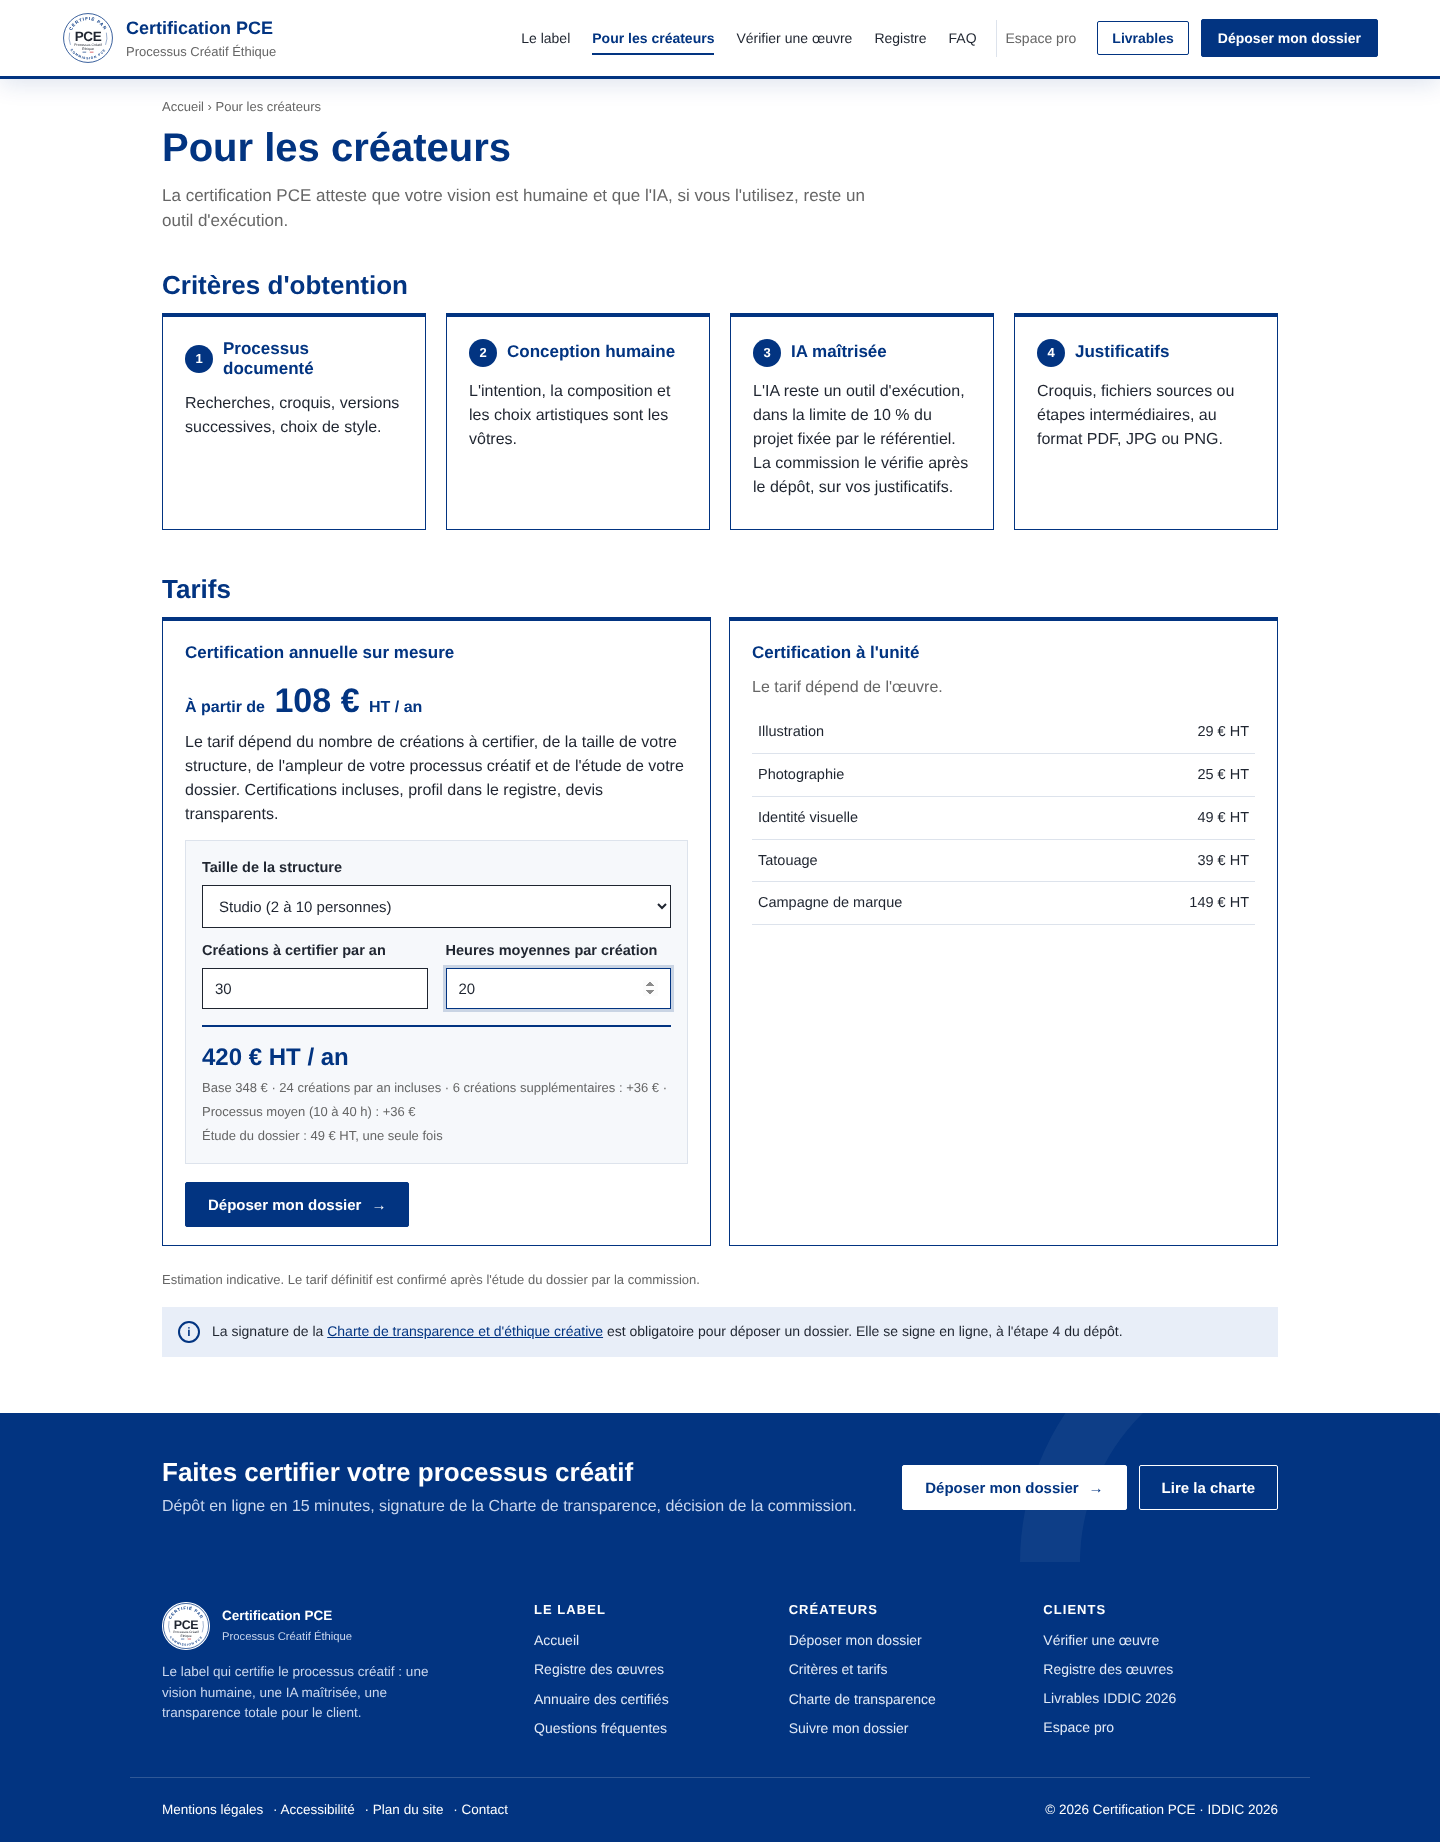
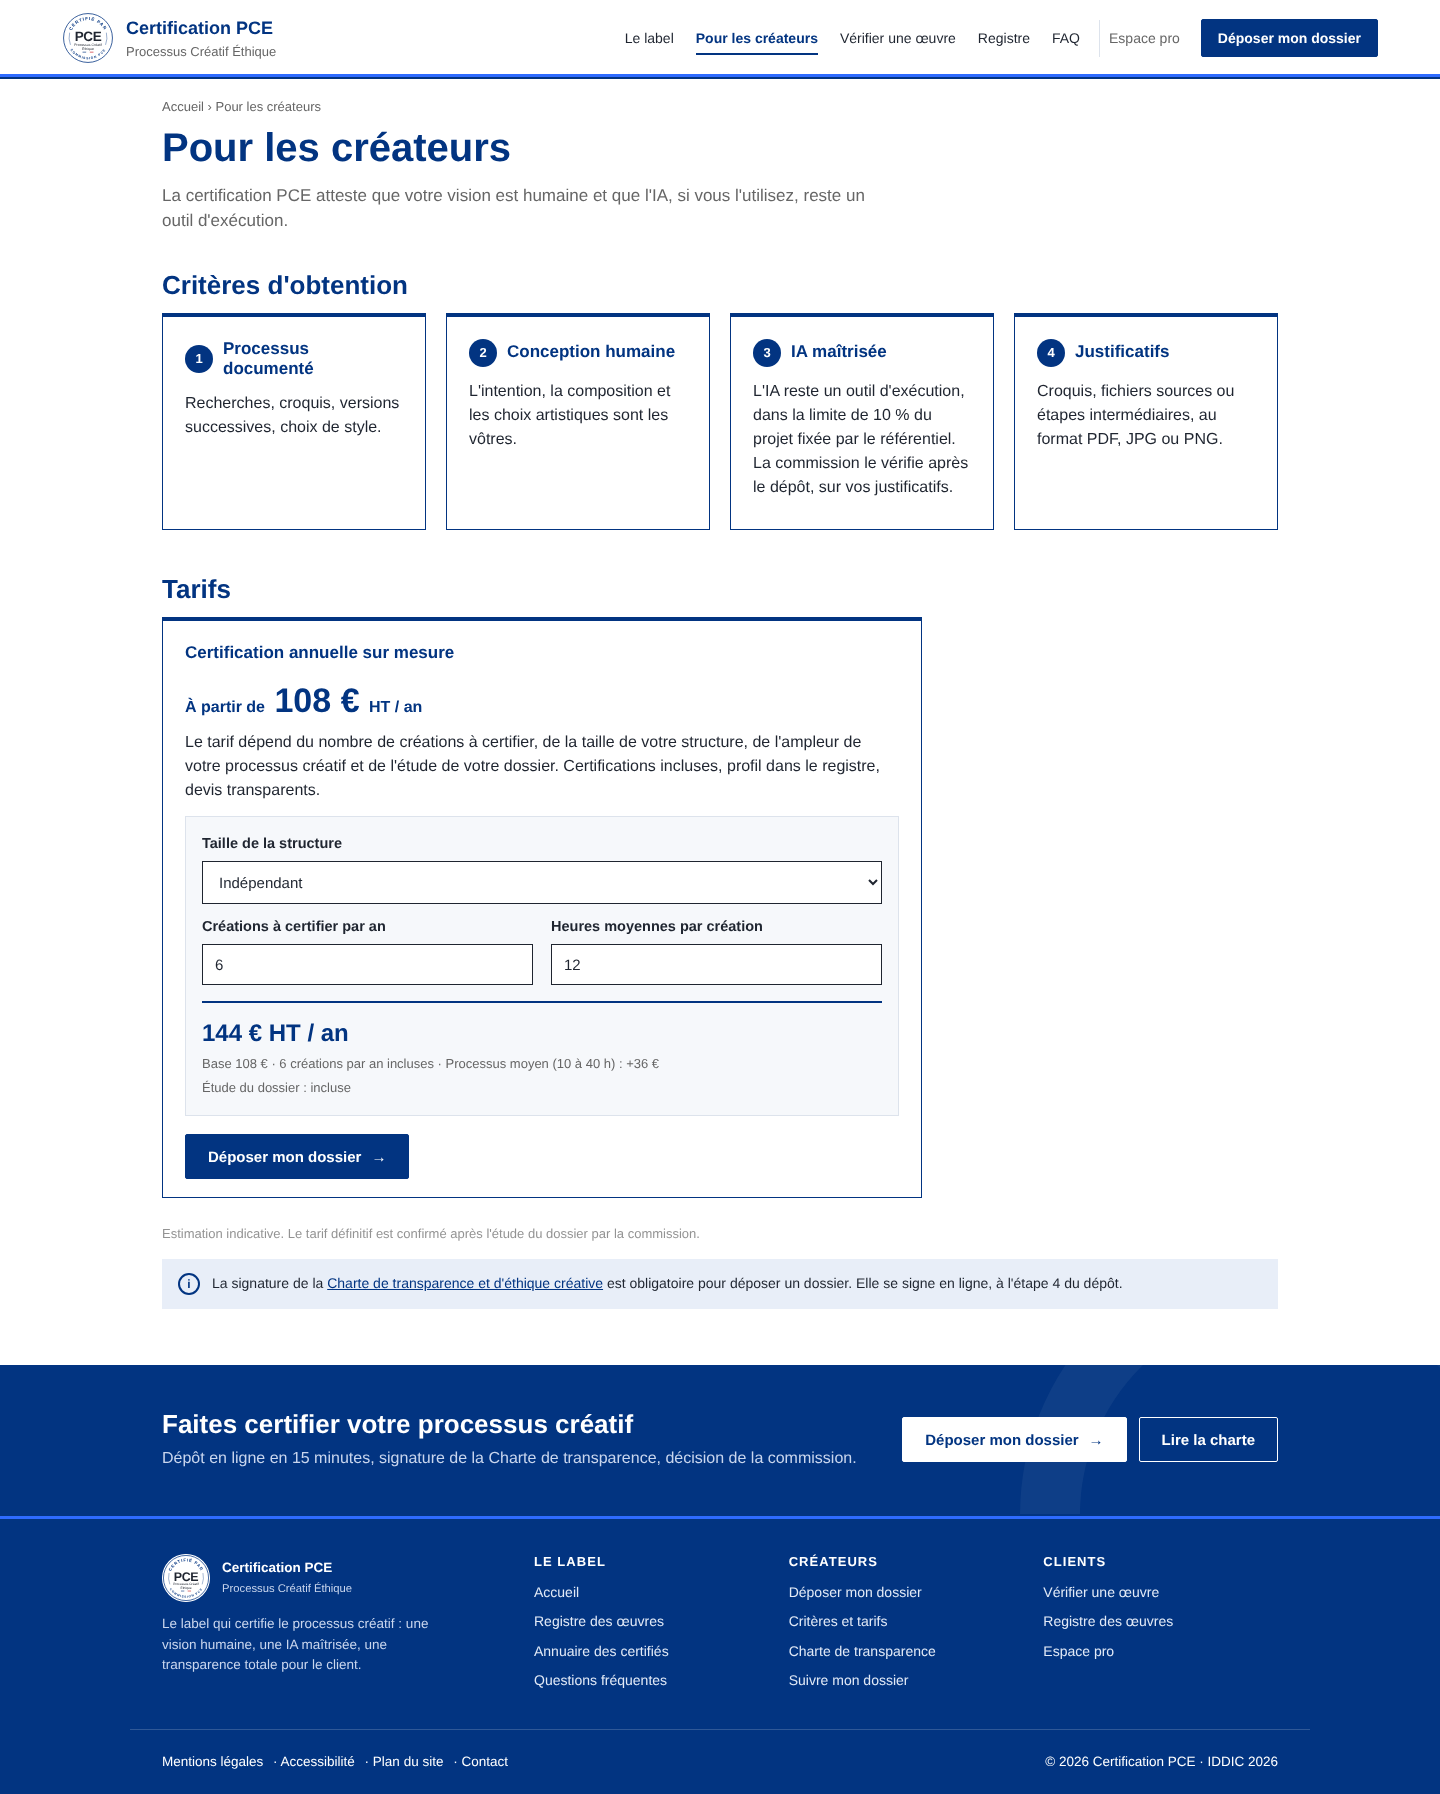
Accueil : moteur des dernières œuvres et entités vérifiées ; retrait des livrables du site et de la carte de certification à l'unité
Claude-Session: https://claude.ai/code/session_013D7uRxLFz2dHeA6eheZQbo

diff --git a/livrable/Prototype_PCE.html b/livrable/Prototype_PCE.html
@@ -274,6 +274,14 @@ table.devis tr.tot td { font-weight: 700; font-size: 16px; border-bottom: 2px so
 .estim-res b { display: block; font-size: 24px; color: var(--marine); transition: opacity .2s; }
 .estim-res span { font-size: 13px; color: var(--gris); }
 
+/* Moteur de l'accueil : œuvres ou entités */
+.moteur { display: flex; gap: 16px; align-items: center; flex-wrap: wrap; border: 1px solid var(--marine); border-top: 4px solid var(--marine); padding: 16px; background: var(--blanc); }
+.bascule { display: inline-flex; border: 1.5px solid var(--marine); flex: none; }
+.bascule button { background: var(--blanc); color: var(--marine); border: none; padding: 11px 20px; font: 700 15px var(--police); cursor: pointer; transition: background .2s, color .2s; }
+.bascule button.actif { background: var(--marine); color: var(--blanc); }
+.moteur-f { display: flex; gap: 10px; flex: 1; min-width: 260px; }
+.moteur-f input { flex: 1; }
+
 /* Annuaire des certifiés */
 .onglets-pub { display: flex; gap: 4px; border-bottom: 2px solid var(--trait-c); margin: 14px 0 22px; flex-wrap: wrap; }
 .onglets-pub a { padding: 10px 16px; text-decoration: none; color: var(--gris); font-weight: 700; border-bottom: 3px solid transparent; margin-bottom: -2px; transition: color .2s, border-color .2s; }
@@ -289,15 +297,6 @@ table.devis tr.tot td { font-weight: 700; font-size: 16px; border-bottom: 2px so
 .avatar.grand { width: 84px; height: 84px; font-size: 28px; }
 .entite-ent { display: flex; gap: 20px; align-items: center; margin-top: 8px; }
 
-/* Livrables */
-.boite.livr { text-align: left; width: min(560px, 94vw); padding: 0; }
-.livr-ent { display: flex; justify-content: space-between; align-items: center; padding: 18px 22px; border-bottom: 1px solid var(--trait-c); }
-.livr-ent h2 { margin: 0; font-size: 20px; }
-.livr ul { list-style: none; margin: 0; padding: 8px 22px 18px; }
-.livr li { display: grid; grid-template-columns: 28px 1fr auto; gap: 14px; align-items: center; padding: 12px 0; border-bottom: 1px solid var(--trait-c); animation: entree .35s both; }
-.livr li:last-child { border-bottom: none; }
-.livr li b { display: block; color: var(--marine); }
-.livr li small { color: var(--gris); font-size: 13px; }
 
 /* Confirmation / suivi */
 .etroit { max-width: 720px; margin: 0 auto; padding-bottom: 56px; }
@@ -473,7 +472,7 @@ table.bdd tbody tr:hover { background: var(--pale); }
       <p>Le label qui certifie le processus créatif : une vision humaine, une IA maîtrisée, une transparence totale pour le client.</p></div>
     <div><h4>Le label</h4><ul><li><a href="#/">Accueil</a></li><li><a href="#/registre">Registre des œuvres</a></li><li><a href="#/annuaire">Annuaire des certifiés</a></li><li><a href="#/faq">Questions fréquentes</a></li></ul></div>
     <div><h4>Créateurs</h4><ul><li><a href="#/depot">Déposer mon dossier</a></li><li><a href="#/createurs">Critères et tarifs</a></li><li><a class="lien-charte">Charte de transparence</a></li><li><a href="#/suivi">Suivre mon dossier</a></li></ul></div>
-    <div><h4>Clients</h4><ul><li><a href="#/verifier">Vérifier une œuvre</a></li><li><a href="#/registre">Registre des œuvres</a></li><li><button type="button" class="pied-livr">Livrables IDDIC 2026</button></li><li><a href="#/pro">Espace pro</a></li></ul></div>
+    <div><h4>Clients</h4><ul><li><a href="#/verifier">Vérifier une œuvre</a></li><li><a href="#/registre">Registre des œuvres</a></li><li><a href="#/pro">Espace pro</a></li></ul></div>
   </div>
   <div class="conteneur pied-bas">
     <div><a href="#/faq">Mentions légales</a> · <a href="#/faq">Accessibilité</a> · <a href="#/registre">Plan du site</a> · <a href="#/faq">Contact</a></div>
@@ -2917,32 +2916,10 @@ function entete(route) {
     <nav class="nav" id="nav" aria-label="Navigation principale">
       ${liens.map(([h, t]) => `<a href="${h}" class="${(h === "#/" ? route === "/" : (route === h.slice(1) || route.startsWith(h.slice(1) + "/") || (h === "#/registre" && /^\/(annuaire|certifie\/)/.test(route)))) ? "actif" : ""}">${t}</a>`).join("")}
       <a href="#/pro" class="pro ${route.startsWith("/pro") ? "actif" : ""}">Espace pro</a>
-      <button class="btn petit sec" id="btn-livrables" type="button" style="margin-left:8px">Livrables</button>
       <a class="btn petit" href="#/depot" style="margin-left:8px">Déposer mon dossier</a>
     </nav></div>`;
   const b = $(".menu-btn"), n = $("#nav");
   b.onclick = () => { const o = n.classList.toggle("ouvert"); b.setAttribute("aria-expanded", o); };
-  $("#btn-livrables").onclick = livrables;
-}
-/* ---------- Livrables (fenêtre de téléchargement) ---------- */
-const DOSSIER_LIVRABLES = location.pathname.includes("/livrable/") ? "" : "/livrable/";
-const LIVRABLES = [
-  ["Pitch_PCE.pdf", "Pitch écrit", "PDF · 1 page"],
-  ["Business_Plan_PCE.xlsx", "Business plan", "Excel · 3 ans, onglet Hypothèses"],
-  ["Prototype_PCE.html", "Prototype", "HTML · fichier unique, hors ligne"],
-];
-function livrables() {
-  const v = document.createElement("div"); v.className = "voile";
-  v.innerHTML = `<div class="boite livr" role="dialog" aria-modal="true" aria-labelledby="livr-t">
-    <div class="livr-ent"><h2 id="livr-t">Livrables IDDIC 2026</h2><button class="fermer" aria-label="Fermer">×</button></div>
-    <ul>${LIVRABLES.map(([f, t, d], i) => `<li style="animation-delay:${i * 60}ms"><span class="pastille">${i + 1}</span><span><b>${t}</b><small>${d}</small></span><a class="btn petit" href="${DOSSIER_LIVRABLES}${f}" download="${f}">Télécharger</a></li>`).join("")}</ul>
-  </div>`;
-  document.body.append(v);
-  const fermer = () => { v.remove(); document.removeEventListener("keydown", k); $("#btn-livrables").focus(); };
-  const k = e => { if (e.key === "Escape") fermer(); };
-  document.addEventListener("keydown", k);
-  v.onclick = e => { if (e.target === v) fermer(); };
-  $(".fermer", v).onclick = fermer; $(".fermer", v).focus();
 }
 const ariane = (...p) => `<div class="ariane"><a href="#/">Accueil</a> › ${p.map((x, i) => i < p.length - 1 ? `<a href="${x[0]}">${x[1]}</a>` : esc(x)).join(" › ")}</div>`;
 
@@ -2987,8 +2964,17 @@ function vueAccueil() {
     </div>
   </div></section>
   <section class="section"><div class="conteneur">
-    <div style="display:flex;justify-content:space-between;align-items:end;gap:16px;flex-wrap:wrap" class="rev"><h2 style="margin:0">Dernières œuvres certifiées</h2><span><a href="#/registre">Consulter le registre →</a> &nbsp; <a href="#/annuaire">Annuaire des certifiés →</a></span></div>
-    <div class="galerie" style="margin-top:22px">${vedetteEnTete(cert).slice(0, 8).map(carteOeuvre).join("")}</div>
+    <h2 class="rev">Dernières œuvres et entités vérifiées</h2>
+    <div class="moteur rev">
+      <div class="bascule" role="tablist" aria-label="Afficher">
+        <button type="button" role="tab" data-vue="oeuvres" aria-selected="true" class="actif">Œuvres</button>
+        <button type="button" role="tab" data-vue="entites" aria-selected="false">Entités</button>
+      </div>
+      <form id="m-f" class="moteur-f"><label class="sr" for="m-q">Rechercher</label><input id="m-q" type="search" placeholder="Rechercher une œuvre, un créateur, un numéro PCE" autocomplete="off"><button class="btn">Rechercher <span class="fl">→</span></button></form>
+    </div>
+    <p class="muted petit-texte" id="m-n" aria-live="polite" style="margin:10px 0 0"></p>
+    <div id="m-g" style="margin-top:14px"></div>
+    <p style="margin-top:18px"><a id="m-tout" href="#/registre">Voir tout le registre des œuvres →</a></p>
   </div></section>
   <section class="section fond"><div class="conteneur"><div class="verif-home rev">
     <div><span class="tag">Pour les clients</span><h2 style="margin-top:10px">Vous achetez une création ?</h2><p class="muted" style="margin:0">Saisissez le numéro PCE inscrit sur l'œuvre ou scannez son QR code. La vérification est gratuite.</p></div>
@@ -2999,7 +2985,38 @@ function vueAccueil() {
 }
 const bandeauCta = () => `<section class="cta"><div class="conteneur"><div><h2>Faites certifier votre processus créatif</h2><p>Dépôt en ligne en 15 minutes, signature de la Charte de transparence, décision de la commission.</p></div>
   <div class="g"><a class="btn blanc" href="#/depot">Déposer mon dossier <span class="fl">→</span></a><a class="btn contour" href="#/charte">Lire la charte</a></div></div></section>`;
+const paramQ = () => decodeURIComponent((location.hash.split("?q=")[1] || "").split("&")[0]);
+const dernierCertif = e => Math.max(...e.oeuvres.map(o => +new Date(o.date)));
+function initMoteur() {
+  let vue = "oeuvres";
+  const f = () => {
+    const q = $("#m-q").value.trim().toLowerCase();
+    if (vue === "oeuvres") {
+      const l = vedetteEnTete(DB.data.oeuvres.filter(o => o.statut === "certifiee" && (!q || (o.titre + " " + o.createur + " " + o.type + " " + o.id).toLowerCase().includes(q))).sort((a, b) => new Date(b.date) - new Date(a.date)));
+      $("#m-n").textContent = q ? `${l.length} œuvre${l.length > 1 ? "s" : ""} trouvée${l.length > 1 ? "s" : ""}` : "Les dernières œuvres certifiées";
+      $("#m-g").innerHTML = l.length ? `<div class="galerie">${l.slice(0, 8).map(carteOeuvre).join("")}</div>` : `<div class="vide-msg">Aucune œuvre ne correspond à votre recherche.</div>`;
+    } else {
+      const l = entites().filter(e => !q || (e.nom + " " + [...e.types].join(" ") + " " + (e.ville || "") + " " + e.taille).toLowerCase().includes(q))
+        .sort((a, b) => (b.oeuvres.some(o => o.id === VEDETTE)) - (a.oeuvres.some(o => o.id === VEDETTE)) || dernierCertif(b) - dernierCertif(a));
+      $("#m-n").textContent = q ? `${l.length} entité${l.length > 1 ? "s" : ""} trouvée${l.length > 1 ? "s" : ""}` : "Les dernières entités certifiées : créatifs, studios et agences";
+      $("#m-g").innerHTML = l.length ? `<div class="entites">${l.slice(0, 6).map(carteEntite).join("")}</div>` : `<div class="vide-msg">Aucune entité ne correspond à votre recherche.</div>`;
+    }
+    const cible = vue === "oeuvres" ? "#/registre" : "#/annuaire";
+    $("#m-tout").href = cible + (q ? "?q=" + encodeURIComponent($("#m-q").value.trim()) : "");
+    $("#m-tout").textContent = vue === "oeuvres" ? "Voir tout le registre des œuvres →" : "Voir tout l'annuaire des certifiés →";
+    revele();
+  };
+  $$(".bascule button").forEach(b => b.onclick = () => {
+    vue = b.dataset.vue; $$(".bascule button").forEach(x => { x.classList.toggle("actif", x === b); x.setAttribute("aria-selected", x === b); });
+    $("#m-q").placeholder = vue === "oeuvres" ? "Rechercher une œuvre, un créateur, un numéro PCE" : "Rechercher un créatif, un studio, une agence, une ville";
+    f();
+  });
+  $("#m-q").addEventListener("input", f);
+  $("#m-f").onsubmit = e => { e.preventDefault(); location.hash = $("#m-tout").getAttribute("href"); };
+  f();
+}
 function initAccueil() {
+  initMoteur();
   $("#vh-f").onsubmit = e => { e.preventDefault(); const n = $("#vh-n").value.trim(); if (n) location.hash = "#/verifier/" + encodeURIComponent(n); };
   $$("[data-vh]").forEach(b => b.onclick = () => { location.hash = "#/verifier/" + b.dataset.vh; });
 }
@@ -3019,7 +3036,7 @@ function vueCreateurs() {
       <div class="carte rev"><h3><span class="pastille">4</span>Justificatifs</h3><p>Croquis, fichiers sources ou étapes intermédiaires, au format PDF, JPG ou PNG.</p></div>
     </div>
     <h2 style="margin-top:44px">Tarifs</h2>
-    <div class="deux" style="margin-bottom:24px">
+    <div style="margin-bottom:24px;max-width:760px">
       <div class="carte rev"><h3>Certification annuelle sur mesure</h3><p style="font-size:34px;font-weight:700;color:var(--marine);margin:4px 0"><span style="font-size:16px">À partir de</span> 108 € <span style="font-size:16px">HT / an</span></p>
         <p>Le tarif dépend du nombre de créations à certifier, de la taille de votre structure, de l'ampleur de votre processus créatif et de l'étude de votre dossier. Certifications incluses, profil dans le registre, devis transparents.</p>
         <div class="estim" id="estim">
@@ -3029,8 +3046,6 @@ function vueCreateurs() {
           <div class="estim-res" id="es-r" aria-live="polite"></div>
         </div>
         <a class="btn" href="#/depot">Déposer mon dossier <span class="fl">→</span></a></div>
-      <div class="carte rev"><h3>Certification à l'unité</h3><p class="muted">Le tarif dépend de l'œuvre.</p>
-        <table class="devis">${Object.entries(TYPES).map(([t, p]) => `<tr><td>${t}</td><td>${eur(p)} HT</td></tr>`).join("")}</table></div>
     </div>
     <p class="muted petit-texte rev" style="margin:0 0 18px">Estimation indicative. Le tarif définitif est confirmé après l'étude du dossier par la commission.</p>
     <div class="info rev" style="margin-bottom:56px"><span class="i">i</span><span>La signature de la <a href="#/charte">Charte de transparence et d'éthique créative</a> est obligatoire pour déposer un dossier. Elle se signe en ligne, à l'étape 4 du dépôt.</span></div>
@@ -3106,7 +3121,7 @@ function initAnnuaire() {
     $("#a-g").innerHTML = l.length ? l.map(carteEntite).join("") : `<div class="vide-msg" style="grid-column:1/-1">Aucun certifié ne correspond à votre recherche.</div>`;
     revele();
   };
-  ["#a-q", "#a-t", "#a-s", "#a-v"].forEach(x => $(x).addEventListener("input", f)); f();
+  $("#a-q").value = paramQ(); ["#a-q", "#a-t", "#a-s", "#a-v"].forEach(x => $(x).addEventListener("input", f)); f();
 }
 function vueEntite(slug) {
   const e = entites().find(x => x.slug === slug);
@@ -3135,7 +3150,7 @@ function initRegistre() {
     $("#r-g").innerHTML = l.length ? l.map(carteOeuvre).join("") : `<div class="vide-msg" style="grid-column:1/-1">Aucune œuvre ne correspond à votre recherche.</div>`;
     revele();
   };
-  $("#r-q").oninput = f; $("#r-t").onchange = f; f();
+  $("#r-q").value = paramQ(); $("#r-q").oninput = f; $("#r-t").onchange = f; f();
 }
 
 function vueVerifier(id) {
@@ -3683,7 +3698,7 @@ function rendre() {
 }
 DB.charger(); DB.sauver();
 addEventListener("scroll", () => $("#entete").classList.toggle("ombre", scrollY > 8), { passive: true });
-$(".pied-logo").src = LOGO; $(".lien-charte").href = "#/charte"; $(".pied-livr").onclick = livrables;
+$(".pied-logo").src = LOGO; $(".lien-charte").href = "#/charte";
 { const m = location.pathname.match(/^\/(verifier|suivi|oeuvre)\/([^/]+)\/?$/); if (m && !location.hash) history.replaceState(null, "", "/#/" + m[1] + "/" + m[2]); }
 addEventListener("hashchange", rendre);
 rendre();

diff --git a/livrable/README.md b/livrable/README.md
@@ -10,9 +10,8 @@
 
 Site complet en un seul fichier. Les données sont enregistrées dans le navigateur.
 
-- **Côté public** : accueil, critères et tarifs avec estimateur d'abonnement, vérification d'une œuvre (rubrique clients), registre des œuvres certifiées, annuaire des certifiés (recherche par nom, discipline, structure, ville), Charte de transparence, FAQ.
+- **Côté public** : accueil avec moteur « Dernières œuvres et entités vérifiées » (bascule œuvres ou entités, relié au registre et à l'annuaire), critères et tarifs avec estimateur d'abonnement, vérification d'une œuvre (rubrique clients), registre des œuvres certifiées, annuaire des certifiés (recherche par nom, discipline, structure, ville), Charte de transparence, FAQ.
 - **Parcours créateur** : dépôt du dossier en 5 étapes, heures indicatives sans test d'IA (vérification par la commission après le dépôt), Charte de transparence (version 1.1) remplie et signée en ligne, obligatoire, certification annuelle sur mesure, devis client transparent, accusé de réception, suivi, certificat, œuvre signée avec sceau et QR code.
-- **Bouton Livrables** dans l'en-tête : téléchargement du pitch, du business plan et du prototype.
 - **Espace pro** (connexion de démonstration pré-remplie) : tableau de bord, dossiers à traiter, base des œuvres avec recherche, filtres, tri, fiche détaillée avec charte signée, double vérification (analyse IA des fichiers, puis contrôle humain, audit terrain si besoin), décision de la commission, export CSV.
 
 ### Tarifs
